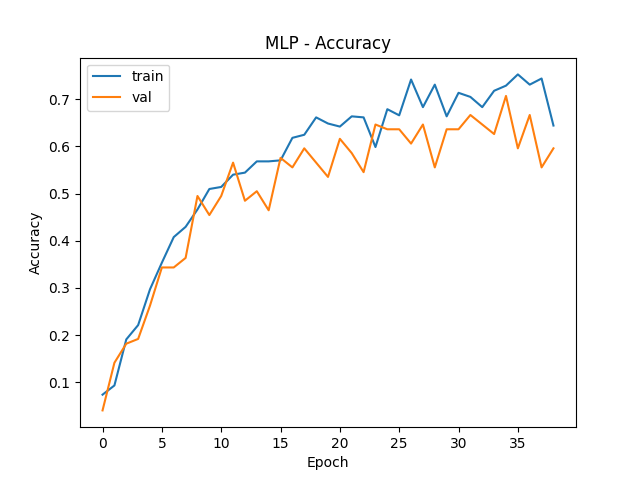
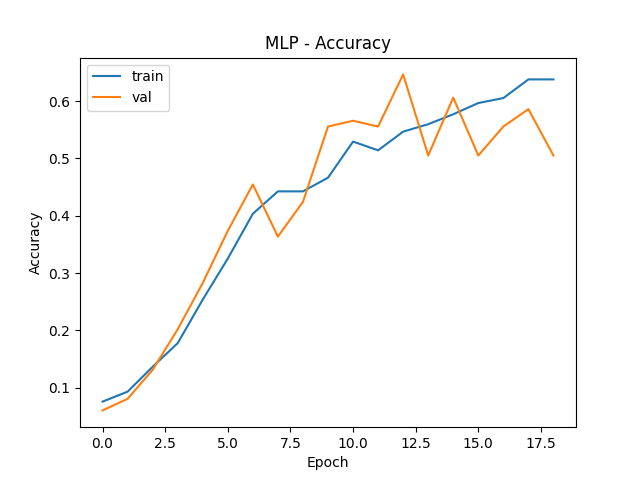
ajout partie 2 fini

diff --git a/partie_1/main.py b/partie_1/main.py
@@ -7,11 +7,21 @@ from partie_1.Filtrage_des_classes.Pretraitement import filtre_imagettes_selon_l
 from partie_1.Filtrage_des_classes.Pretraitement import split_train_val_test
 from partie_1.Filtrage_des_classes.Pretraitement import print_repartition_pourcentage_par_classe
 
+image_dir = "./data/Image/"
+annotation_file = "./data/gt.txt"
+imagettes_output ="./data/"
+imagettes_dir_64x64="./data/64x64/"
+# la variable si dessous est la pour stocker la liste des couple path_image et class qui a ete retenue apres le filtre selon une valuer min de 20   
+json_couple_path_class_train = imagettes_dir_64x64+"train.json"
+json_couple_path_class_val = imagettes_dir_64x64+"val.json"
+json_couple_path_class_test = imagettes_dir_64x64+"test.json"
+
+
 #Visualisation et inspection rapide :
 def visualise():
-    visualise_with_box(image_dir,annotation_file,5)
+    visualise_with_box(image_dir,annotation_file,6,3)
 
-#visualise()
+visualise()
 #rep questions dans le fichier.py
 
 #Extraction de imagettes de panneaux :
@@ -21,29 +31,22 @@ def resize_all():
 #Filtrage des classes:
 def split_data():
     #pour visualié:
-    #print_repartition_classes(calculs_repartition_classes(annotation_file))
+    print_repartition_classes(calculs_repartition_classes(annotation_file))
 
     liste_couple_path_class = filtre_imagettes_selon_liste(imagettes_dir_64x64,annotation_file)
     train, val, test = split_train_val_test(liste_couple_path_class)
 
     #on verif qu'on garde l'homogeneité
-    #print_repartition_pourcentage_par_classe(train, title="TRAIN")
-    #print_repartition_pourcentage_par_classe(val,   title="VAL")
-    #print_repartition_pourcentage_par_classe(test,  title="TEST")
+    print_repartition_pourcentage_par_classe(train, title="TRAIN")
+    print_repartition_pourcentage_par_classe(val,   title="VAL")
+    print_repartition_pourcentage_par_classe(test,  title="TEST")
 
     mb.save_json(train, json_couple_path_class_train)
     mb.save_json(val, json_couple_path_class_val)
     mb.save_json(test, json_couple_path_class_test)
 
 
-image_dir = "./data/Image/"
-annotation_file = "./data/gt.txt"
-imagettes_output ="./data/"
-imagettes_dir_64x64="./data/64x64/"
-# la variable si dessous est la pour stocker la liste des couple path_image et class qui a ete retenue apres le filtre selon une valuer min de 20   
-json_couple_path_class_train = imagettes_dir_64x64+"train.json"
-json_couple_path_class_val = imagettes_dir_64x64+"val.json"
-json_couple_path_class_test = imagettes_dir_64x64+"test.json"
+
 
 """
 Consigne : 
@@ -56,5 +59,5 @@ les diviser dans nos 3 blocs train, val et test. J’ai ajouté des JSON pour ch
 
 """
 
-resize_all()
-split_data()
+#resize_all()
+#split_data()

diff --git a/partie_2/Conception_du_MLP/build_model.py b/partie_2/Conception_du_MLP/build_model.py
@@ -22,8 +22,8 @@ def build_model(num_classes,size_image=64*64*3):
     model = tf.keras.Sequential([
         tf.keras.layers.Input(shape=(size_image,)),
         tf.keras.layers.Dense(size_image//2, activation="relu"),
-        tf.keras.layers.Dense(4096, activation="relu"),
         tf.keras.layers.Dense(1024, activation="relu"),
+        tf.keras.layers.Dense(512, activation="relu"),
         tf.keras.layers.Dense(num_classes, activation="softmax")
     ])
     return model
